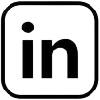
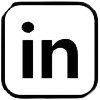
link fix

Changed region(s): [[0.0, 0.0, 0.96, 0.72], [0.3, 0.12, 0.99, 0.99], [0.0, 0.78, 0.24, 0.99]]

diff --git a/index.html b/index.html
@@ -74,16 +74,19 @@
   <footer>
     <div class="footer-content">
       <div class="social-links">
-        <a href="https://www.behance.com" target="_blank">
+        <a href="https://www.behance.net/thaisamayara" target="_blank">
           <img src="/assets/img/beha-nobg.png" alt="Behance">
         </a>
-        <a href="https://www.facebook.com" target="_blank">
+        <a href="https://www.facebook.com/tammysilustracoes/" target="_blank">
           <img src="/assets/img/face-nobg.png" alt="Facebook">
         </a>
-        <a href="https://www.instagram.com" target="_blank">
+        <a href="https://www.instagram.com/tammysilustras/" target="_blank">
           <img src="/assets/img/insta-nobg.png" alt="Instagram">
         </a>
-        <a href="mailto:rafael.longas@gmail.com">
+        <a href="https://www.linkedin.com/in/thaisa-mayara/" target="_blank">
+          <img src="/assets/img/link-nobg.png" alt="Email">
+        </a>
+        <a href="mailto:thaisamstrindade@gmail.com">
           <img src="/assets/img/mail-nobg.png" alt="Email">
         </a>
       </div>

diff --git a/pages/brabout.html b/pages/brabout.html
@@ -55,16 +55,19 @@
   <footer>
     <div class="footer-content">
       <div class="social-links">
-        <a href="https://www.behance.com" target="_blank">
+        <a href="https://www.behance.net/thaisamayara" target="_blank">
           <img src="/assets/img/beha-nobg.png" alt="Behance">
         </a>
-        <a href="https://www.facebook.com" target="_blank">
+        <a href="https://www.facebook.com/tammysilustracoes/" target="_blank">
           <img src="/assets/img/face-nobg.png" alt="Facebook">
         </a>
-        <a href="https://www.instagram.com" target="_blank">
+        <a href="https://www.instagram.com/tammysilustras/" target="_blank">
           <img src="/assets/img/insta-nobg.png" alt="Instagram">
         </a>
-        <a href="mailto:rafael.longas@gmail.com">
+        <a href="https://www.linkedin.com/in/thaisa-mayara/" target="_blank">
+          <img src="/assets/img/link-nobg.png" alt="Email">
+        </a>
+        <a href="mailto:thaisamstrindade@gmail.com">
           <img src="/assets/img/mail-nobg.png" alt="Email">
         </a>
       </div>

diff --git a/pages/bralbum1.html b/pages/bralbum1.html
@@ -57,16 +57,19 @@
   <footer>
     <div class="footer-content">
       <div class="social-links">
-        <a href="https://www.behance.com" target="_blank">
+        <a href="https://www.behance.net/thaisamayara" target="_blank">
           <img src="/assets/img/beha-nobg.png" alt="Behance">
         </a>
-        <a href="https://www.facebook.com" target="_blank">
+        <a href="https://www.facebook.com/tammysilustracoes/" target="_blank">
           <img src="/assets/img/face-nobg.png" alt="Facebook">
         </a>
-        <a href="https://www.instagram.com" target="_blank">
+        <a href="https://www.instagram.com/tammysilustras/" target="_blank">
           <img src="/assets/img/insta-nobg.png" alt="Instagram">
         </a>
-        <a href="mailto:rafael.longas@gmail.com">
+        <a href="https://www.linkedin.com/in/thaisa-mayara/" target="_blank">
+          <img src="/assets/img/link-nobg.png" alt="Email">
+        </a>
+        <a href="mailto:thaisamstrindade@gmail.com">
           <img src="/assets/img/mail-nobg.png" alt="Email">
         </a>
       </div>

diff --git a/pages/bralbum2.html b/pages/bralbum2.html
@@ -56,16 +56,19 @@
   <footer>
     <div class="footer-content">
       <div class="social-links">
-        <a href="https://www.behance.com" target="_blank">
+        <a href="https://www.behance.net/thaisamayara" target="_blank">
           <img src="/assets/img/beha-nobg.png" alt="Behance">
         </a>
-        <a href="https://www.facebook.com" target="_blank">
+        <a href="https://www.facebook.com/tammysilustracoes/" target="_blank">
           <img src="/assets/img/face-nobg.png" alt="Facebook">
         </a>
-        <a href="https://www.instagram.com" target="_blank">
+        <a href="https://www.instagram.com/tammysilustras/" target="_blank">
           <img src="/assets/img/insta-nobg.png" alt="Instagram">
         </a>
-        <a href="mailto:rafael.longas@gmail.com">
+        <a href="https://www.linkedin.com/in/thaisa-mayara/" target="_blank">
+          <img src="/assets/img/link-nobg.png" alt="Email">
+        </a>
+        <a href="mailto:thaisamstrindade@gmail.com">
           <img src="/assets/img/mail-nobg.png" alt="Email">
         </a>
       </div>

diff --git a/pages/bralbum3.html b/pages/bralbum3.html
@@ -56,16 +56,19 @@
   <footer>
     <div class="footer-content">
       <div class="social-links">
-        <a href="https://www.behance.com" target="_blank">
+        <a href="https://www.behance.net/thaisamayara" target="_blank">
           <img src="/assets/img/beha-nobg.png" alt="Behance">
         </a>
-        <a href="https://www.facebook.com" target="_blank">
+        <a href="https://www.facebook.com/tammysilustracoes/" target="_blank">
           <img src="/assets/img/face-nobg.png" alt="Facebook">
         </a>
-        <a href="https://www.instagram.com" target="_blank">
+        <a href="https://www.instagram.com/tammysilustras/" target="_blank">
           <img src="/assets/img/insta-nobg.png" alt="Instagram">
         </a>
-        <a href="mailto:rafael.longas@gmail.com">
+        <a href="https://www.linkedin.com/in/thaisa-mayara/" target="_blank">
+          <img src="/assets/img/link-nobg.png" alt="Email">
+        </a>
+        <a href="mailto:thaisamstrindade@gmail.com">
           <img src="/assets/img/mail-nobg.png" alt="Email">
         </a>
       </div>

diff --git a/pages/bralbum4.html b/pages/bralbum4.html
@@ -57,16 +57,19 @@
   <footer>
     <div class="footer-content">
       <div class="social-links">
-        <a href="https://www.behance.com" target="_blank">
+        <a href="https://www.behance.net/thaisamayara" target="_blank">
           <img src="/assets/img/beha-nobg.png" alt="Behance">
         </a>
-        <a href="https://www.facebook.com" target="_blank">
+        <a href="https://www.facebook.com/tammysilustracoes/" target="_blank">
           <img src="/assets/img/face-nobg.png" alt="Facebook">
         </a>
-        <a href="https://www.instagram.com" target="_blank">
+        <a href="https://www.instagram.com/tammysilustras/" target="_blank">
           <img src="/assets/img/insta-nobg.png" alt="Instagram">
         </a>
-        <a href="mailto:rafael.longas@gmail.com">
+        <a href="https://www.linkedin.com/in/thaisa-mayara/" target="_blank">
+          <img src="/assets/img/link-nobg.png" alt="Email">
+        </a>
+        <a href="mailto:thaisamstrindade@gmail.com">
           <img src="/assets/img/mail-nobg.png" alt="Email">
         </a>
       </div>

diff --git a/pages/bralbum5.html b/pages/bralbum5.html
@@ -57,16 +57,19 @@
   <footer>
     <div class="footer-content">
       <div class="social-links">
-        <a href="https://www.behance.com" target="_blank">
+        <a href="https://www.behance.net/thaisamayara" target="_blank">
           <img src="/assets/img/beha-nobg.png" alt="Behance">
         </a>
-        <a href="https://www.facebook.com" target="_blank">
+        <a href="https://www.facebook.com/tammysilustracoes/" target="_blank">
           <img src="/assets/img/face-nobg.png" alt="Facebook">
         </a>
-        <a href="https://www.instagram.com" target="_blank">
+        <a href="https://www.instagram.com/tammysilustras/" target="_blank">
           <img src="/assets/img/insta-nobg.png" alt="Instagram">
         </a>
-        <a href="mailto:rafael.longas@gmail.com">
+        <a href="https://www.linkedin.com/in/thaisa-mayara/" target="_blank">
+          <img src="/assets/img/link-nobg.png" alt="Email">
+        </a>
+        <a href="mailto:thaisamstrindade@gmail.com">
           <img src="/assets/img/mail-nobg.png" alt="Email">
         </a>
       </div>

diff --git a/pages/bralbum6.html b/pages/bralbum6.html
@@ -56,16 +56,19 @@
   <footer>
     <div class="footer-content">
       <div class="social-links">
-        <a href="https://www.behance.com" target="_blank">
+        <a href="https://www.behance.net/thaisamayara" target="_blank">
           <img src="/assets/img/beha-nobg.png" alt="Behance">
         </a>
-        <a href="https://www.facebook.com" target="_blank">
+        <a href="https://www.facebook.com/tammysilustracoes/" target="_blank">
           <img src="/assets/img/face-nobg.png" alt="Facebook">
         </a>
-        <a href="https://www.instagram.com" target="_blank">
+        <a href="https://www.instagram.com/tammysilustras/" target="_blank">
           <img src="/assets/img/insta-nobg.png" alt="Instagram">
         </a>
-        <a href="mailto:rafael.longas@gmail.com">
+        <a href="https://www.linkedin.com/in/thaisa-mayara/" target="_blank">
+          <img src="/assets/img/link-nobg.png" alt="Email">
+        </a>
+        <a href="mailto:thaisamstrindade@gmail.com">
           <img src="/assets/img/mail-nobg.png" alt="Email">
         </a>
       </div>

diff --git a/pages/brcontact.html b/pages/brcontact.html
@@ -49,16 +49,19 @@
   <footer>
     <div class="footer-content">
       <div class="social-links">
-        <a href="https://www.behance.com" target="_blank">
+        <a href="https://www.behance.net/thaisamayara" target="_blank">
           <img src="/assets/img/beha-nobg.png" alt="Behance">
         </a>
-        <a href="https://www.facebook.com" target="_blank">
+        <a href="https://www.facebook.com/tammysilustracoes/" target="_blank">
           <img src="/assets/img/face-nobg.png" alt="Facebook">
         </a>
-        <a href="https://www.instagram.com" target="_blank">
+        <a href="https://www.instagram.com/tammysilustras/" target="_blank">
           <img src="/assets/img/insta-nobg.png" alt="Instagram">
         </a>
-        <a href="mailto:rafael.longas@gmail.com">
+        <a href="https://www.linkedin.com/in/thaisa-mayara/" target="_blank">
+          <img src="/assets/img/link-nobg.png" alt="Email">
+        </a>
+        <a href="mailto:thaisamstrindade@gmail.com">
           <img src="/assets/img/mail-nobg.png" alt="Email">
         </a>
       </div>

diff --git a/pages/brindex.html b/pages/brindex.html
@@ -74,16 +74,19 @@
   <footer>
     <div class="footer-content">
       <div class="social-links">
-        <a href="https://www.behance.com" target="_blank">
+        <a href="https://www.behance.net/thaisamayara" target="_blank">
           <img src="/assets/img/beha-nobg.png" alt="Behance">
         </a>
-        <a href="https://www.facebook.com" target="_blank">
+        <a href="https://www.facebook.com/tammysilustracoes/" target="_blank">
           <img src="/assets/img/face-nobg.png" alt="Facebook">
         </a>
-        <a href="https://www.instagram.com" target="_blank">
+        <a href="https://www.instagram.com/tammysilustras/" target="_blank">
           <img src="/assets/img/insta-nobg.png" alt="Instagram">
         </a>
-        <a href="mailto:rafael.longas@gmail.com">
+        <a href="https://www.linkedin.com/in/thaisa-mayara/" target="_blank">
+          <img src="/assets/img/link-nobg.png" alt="Email">
+        </a>
+        <a href="mailto:thaisamstrindade@gmail.com">
           <img src="/assets/img/mail-nobg.png" alt="Email">
         </a>
       </div>

diff --git a/pages/enabout.html b/pages/enabout.html
@@ -55,16 +55,19 @@
   <footer>
     <div class="footer-content">
       <div class="social-links">
-        <a href="https://www.behance.com" target="_blank">
+        <a href="https://www.behance.net/thaisamayara" target="_blank">
           <img src="/assets/img/beha-nobg.png" alt="Behance">
         </a>
-        <a href="https://www.facebook.com" target="_blank">
+        <a href="https://www.facebook.com/tammysilustracoes/" target="_blank">
           <img src="/assets/img/face-nobg.png" alt="Facebook">
         </a>
-        <a href="https://www.instagram.com" target="_blank">
+        <a href="https://www.instagram.com/tammysilustras/" target="_blank">
           <img src="/assets/img/insta-nobg.png" alt="Instagram">
         </a>
-        <a href="mailto:rafael.longas@gmail.com">
+        <a href="https://www.linkedin.com/in/thaisa-mayara/" target="_blank">
+          <img src="/assets/img/link-nobg.png" alt="Email">
+        </a>
+        <a href="mailto:thaisamstrindade@gmail.com">
           <img src="/assets/img/mail-nobg.png" alt="Email">
         </a>
       </div>

diff --git a/pages/enalbum1.html b/pages/enalbum1.html
@@ -56,16 +56,19 @@
   <footer>
     <div class="footer-content">
       <div class="social-links">
-        <a href="https://www.behance.com" target="_blank">
+        <a href="https://www.behance.net/thaisamayara" target="_blank">
           <img src="/assets/img/beha-nobg.png" alt="Behance">
         </a>
-        <a href="https://www.facebook.com" target="_blank">
+        <a href="https://www.facebook.com/tammysilustracoes/" target="_blank">
           <img src="/assets/img/face-nobg.png" alt="Facebook">
         </a>
-        <a href="https://www.instagram.com" target="_blank">
+        <a href="https://www.instagram.com/tammysilustras/" target="_blank">
           <img src="/assets/img/insta-nobg.png" alt="Instagram">
         </a>
-        <a href="mailto:rafael.longas@gmail.com">
+        <a href="https://www.linkedin.com/in/thaisa-mayara/" target="_blank">
+          <img src="/assets/img/link-nobg.png" alt="Email">
+        </a>
+        <a href="mailto:thaisamstrindade@gmail.com">
           <img src="/assets/img/mail-nobg.png" alt="Email">
         </a>
       </div>
